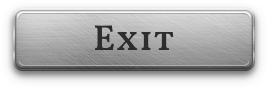
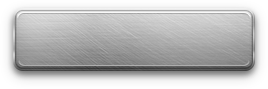
플레이 중 일시정지 까지 구현 / 옵션 사운드 조절 진행 중

Changed region(s): [[0.3284, 0.2697, 0.6567, 0.5618]]

diff --git a/PurahEngine/PauseGame.cpp b/PurahEngine/PauseGame.cpp
@@ -1,0 +1,76 @@
+#include "PauseGame.h"
+#include "TimeController.h"
+#include "GameObject.h"
+#include "UnifiedInputManager.h"
+
+void PurahEngine::PauseGame::Awake()
+{
+	isPause = false;
+}
+
+void PurahEngine::PauseGame::Start()
+{
+
+}
+
+void PurahEngine::PauseGame::Update()
+{
+	for (auto& [targetGameObject, state] : onOffEventList)
+	{
+		bool targetState = targetGameObject->GetEnable();
+		if (UnifiedInputManager::Getinstance().GetKeyDown(eUnfInput::UI_Cancel))
+		{
+			targetGameObject->SetEnable(!targetState);
+		}
+
+		if (targetState == true)
+		{
+			isPause = true;
+		}
+		else
+		{
+			isPause = false;
+		}
+
+	}
+}
+
+void PurahEngine::PauseGame::LateUpdate()
+{
+	if (isPause)
+	{
+		TimeController::GetInstance().SetTimeScale(0.0f);
+	}
+	else
+	{
+		TimeController::GetInstance().SetTimeScale(1.0f);
+
+	}
+}
+
+void PurahEngine::PauseGame::PreSerialize(json& jsonData) const
+{
+
+}
+
+void PurahEngine::PauseGame::PreDeserialize(const json& jsonData)
+{
+	PREDESERIALIZE_BASE();
+}
+
+void PurahEngine::PauseGame::PostSerialize(json& jsonData) const
+{
+
+}
+
+void PurahEngine::PauseGame::PostDeserialize(const json& jsonData)
+{
+	onOffEventList.clear();
+	for (int i = 0; i < jsonData[std::string("__ID__onOffEventList")].size(); i++)
+	{
+		GameObject* targetObject = static_cast<GameObject*>(PurahEngine::FileManager::GetInstance().GetAddress(jsonData[std::string("__ID__onOffEventList")][i][0]));
+		bool state = jsonData[std::string("__ID__onOffEventList")][i][1];
+
+		onOffEventList.push_back({ targetObject, state });
+	}
+}

diff --git a/ZeldaClient/Test2.cpp b/ZeldaClient/Test2.cpp
@@ -14,7 +14,7 @@ PurahEngine::Test2::~Test2()
 
 void PurahEngine::Test2::Awake()
 {
-	
+
 }
 
 void PurahEngine::Test2::Start()
@@ -61,9 +61,23 @@ void PurahEngine::Test2::Update()
 		GetGameObject()->EraseDontDestroy();
 		GetGameObject()->DeleteComponent(this);
 	}
+	if (inputManager.IsKeyPressed(eKey::eKEY_ESCAPE))
+	{
+		isPaused = !isPaused;
+		if (isPaused)
+		{
+			TimeController::GetInstance().SetTimeScale(0.0f);
+		}
+		else
+		{
+			TimeController::GetInstance().SetTimeScale(1.0f);
+		}
+	}
+
 
 	std::wcout << GetGameObject()->GetName() << std::endl;
 	std::cout << trans->GetLocalPosition() << std::endl << std::endl;
+	std::cout << TimeController::GetInstance().GetDeltaTime() << std::endl << std::endl;
 }
 
 void PurahEngine::Test2::FixedUpdate()

diff --git a/PurahEngine/Button.cpp b/PurahEngine/Button.cpp
@@ -48,7 +48,10 @@ namespace PurahEngine
 			if (targetImage != nullptr && selectedImage != L"")
 			{
 				targetImage->SetTexture(selectedImage);
-				GetGameObject()->GetComponent<AudioSource>()->PlayAudio();
+				if (GetGameObject()->GetComponent<AudioSource>() != nullptr)
+				{
+					GetGameObject()->GetComponent<AudioSource>()->PlayAudio();
+				}
 			}
 		}
 	}
@@ -72,7 +75,10 @@ namespace PurahEngine
 
 	void Button::ButtonEvent()
 	{
-		GetGameObject()->GetComponent<AudioSource>()->PlayAudio(1);
+		if (GetGameObject()->GetComponent<AudioSource>() != nullptr)
+		{
+			GetGameObject()->GetComponent<AudioSource>()->PlayAudio(1);
+		}
 		for (auto& [targetGameObject, state] : objectOnOffEventList)
 		{
 			targetGameObject->SetEnable(state);

diff --git a/PurahEngine/SoundManager.h b/PurahEngine/SoundManager.h
@@ -15,7 +15,8 @@ namespace PurahEngine
 	enum class SoundType
 	{
 		BGM,
-		EFFECT
+		EFFECT,
+		UI
 	};
 
 	class PURAHENGINE_API SoundManager
@@ -32,11 +33,15 @@ namespace PurahEngine
 
 		void CreateSfxSound(std::wstring name, FMOD::Sound** sound);
 
+		void CreateUISound(std::wstring name, FMOD::Sound** sound);
+
 		void PlayAudio(SoundType soundType, FMOD::Sound* sound, FMOD::Channel** channel);
 
 		void PlayBGM(FMOD::Sound* sound, FMOD::Channel** channel);
 
 		void PlaySfx(FMOD::Sound* sound, FMOD::Channel** channel);
+
+		void PlayUI(FMOD::Sound* sound, FMOD::Channel** channel);
 
 		void Update();
 

diff --git a/PurahEngine/PurahEngine.cpp b/PurahEngine/PurahEngine.cpp
@@ -45,6 +45,7 @@ void PurahEngine::Initialize(_In_ HINSTANCE hInstance, LPCWSTR gameName, unsigne
 		ComponentFactory::GetInstance().RegisterComponent<Image>("Image");
 		ComponentFactory::GetInstance().RegisterComponent<Button>("Button");
 		ComponentFactory::GetInstance().RegisterComponent<ButtonGroup>("ButtonGroup");
+		ComponentFactory::GetInstance().RegisterComponent<PauseGame>("PauseGame");
 	}
 
 	PurahEngine::GameLoop::GetInstance().Initialize(hInstance, gameName, width, height);

diff --git a/PurahEngine/GameObject.cpp b/PurahEngine/GameObject.cpp
@@ -702,7 +702,9 @@ void PurahEngine::GameObject::PreDeserialize(const json& jsonData)
 	//SetDontDestroy(checkDontDestroy);
 	for (int i = 0; i < jsonData["components"].size(); i++)
 	{
+		std::string tmp = jsonData["components"][i]["__Base__Component"];
 		Component* component = AddComponentToString(jsonData["components"][i]["__Base__Component"]);
+		auto tmp2 = jsonData["components"][i];
 		component->PreDeserialize(jsonData["components"][i]);
 	}
 

diff --git a/PurahEngine/SceneManager.h b/PurahEngine/SceneManager.h
@@ -36,6 +36,7 @@ namespace PurahEngine
 		void SetMainCamera(Camera * camera);
 
 		void SetName(std::wstring name);
+		std::wstring GetName();
 
 		void Update();
 

diff --git a/PurahEngine/PurahEngine.h b/PurahEngine/PurahEngine.h
@@ -58,6 +58,7 @@
 #include "Image.h"
 #include "Button.h"
 #include "ButtonGroup.h"
+#include "PauseGame.h"
 
 namespace PurahEngine
 {

diff --git a/ZeldaClient/Test2.h b/ZeldaClient/Test2.h
@@ -22,6 +22,7 @@ namespace PurahEngine
 
 	private:
 		AudioSource* audioSource;
+		bool isPaused = false;
 	};
 }
 
